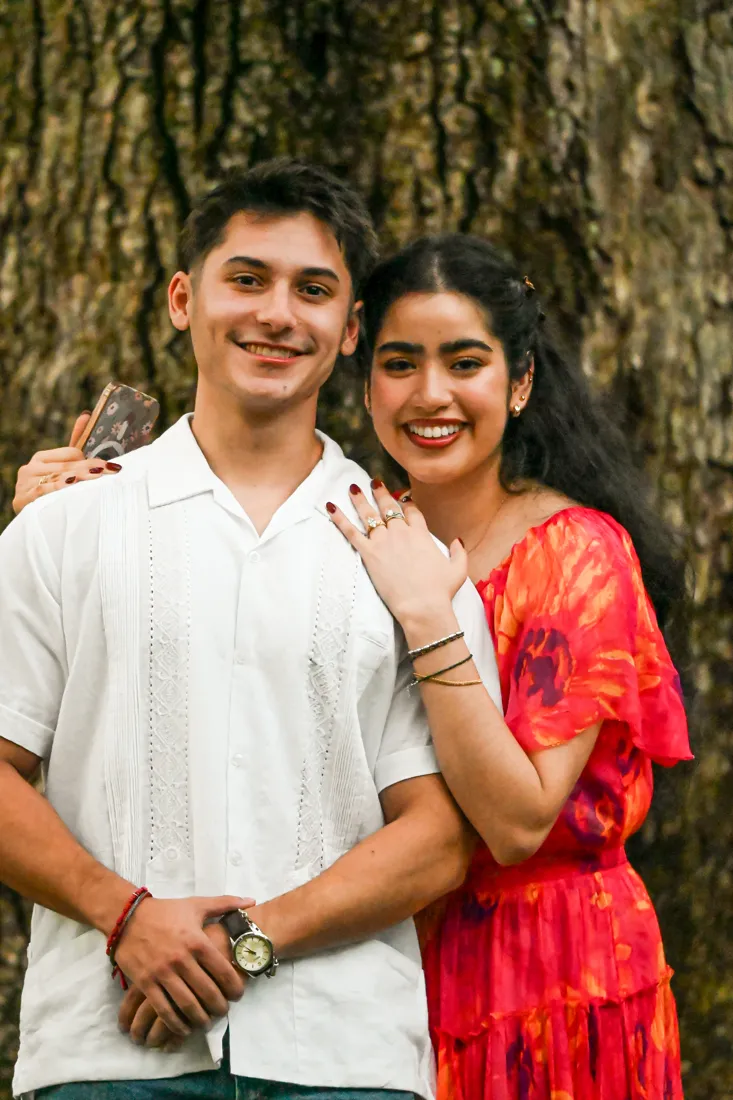
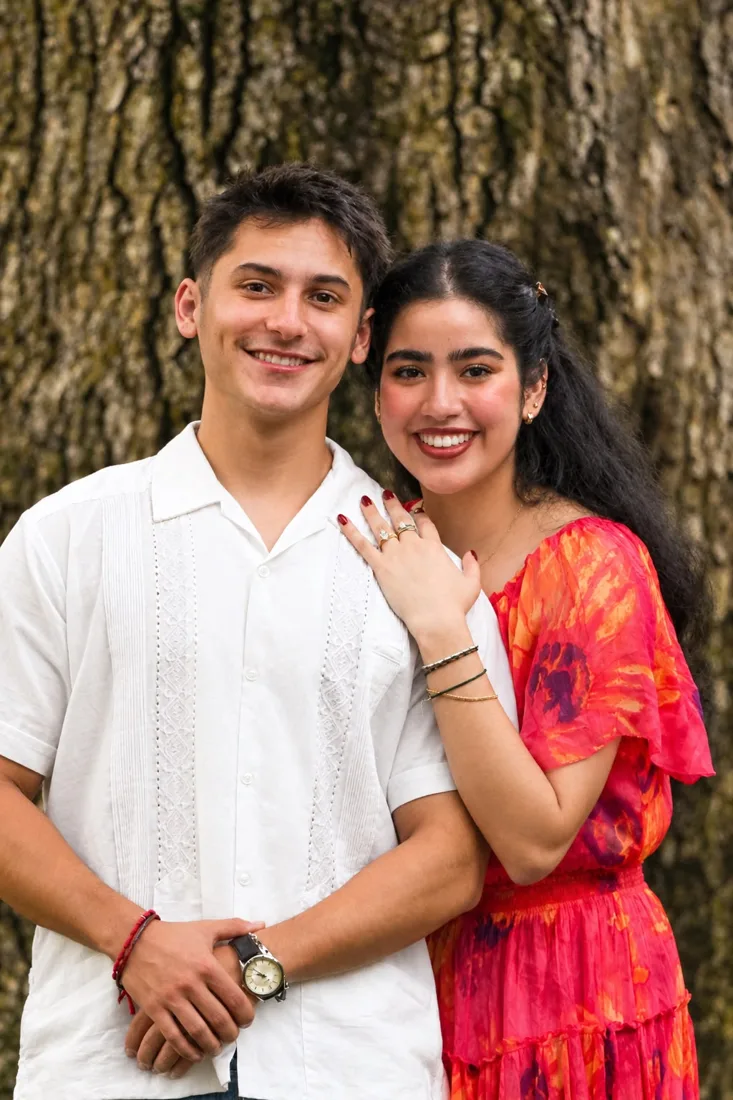
feat: invitacion alineada al STD aprobado (Parisienne+Cormorant, portada floral, aves del paraiso, fotos nuevas)

diff --git a/index.html b/index.html
@@ -19,10 +19,10 @@
 <meta name="twitter:title" content="Alejandra & Josef · 17 de Julio 2027">
 <meta name="twitter:image" content="https://boda-alejandra-y-josef.vercel.app/og-image.jpg">
 
-<link rel="preload" as="image" href="hero-foto.webp" fetchpriority="high">
+<link rel="preload" as="image" href="floral/bg-vestimenta.webp" fetchpriority="high">
 <link rel="preconnect" href="https://fonts.googleapis.com">
 <link rel="preconnect" href="https://fonts.gstatic.com" crossorigin>
-<link href="https://fonts.googleapis.com/css2?family=Cormorant+Garamond:ital,wght@0,400;0,500;0,600;1,400;1,500;1,600&family=Playfair+Display:ital,wght@0,400;0,500;1,400;1,500&family=Pinyon+Script&family=Italiana&family=Montserrat:wght@400;500;600&display=swap" rel="stylesheet">
+<link href="https://fonts.googleapis.com/css2?family=Cormorant+Garamond:ital,wght@0,400;0,500;0,600;0,700;1,400;1,500;1,600&family=Playfair+Display:ital,wght@0,400;0,500;1,400;1,500&family=Parisienne&family=Italiana&family=Montserrat:wght@400;500;600&display=swap" rel="stylesheet">
 <script src="https://cdnjs.cloudflare.com/ajax/libs/gsap/3.12.5/gsap.min.js"></script>
 <script src="https://cdnjs.cloudflare.com/ajax/libs/gsap/3.12.5/ScrollTrigger.min.js"></script>
 <style>
@@ -47,9 +47,9 @@
   --hair-gold:color-mix(in srgb, var(--gold) 32%, transparent);
   --display:'Cormorant Garamond',Georgia,serif;
   --serif:'Cormorant Garamond',Georgia,serif;
-  --script:'Pinyon Script',cursive;
+  --script:'Parisienne',cursive;
   --italiana:'Italiana',serif;
-  --sans:'Montserrat',system-ui,sans-serif;
+  --sans:'Cormorant Garamond',Georgia,serif;
 }
 *{box-sizing:border-box;margin:0;padding:0}
 html{scroll-behavior:smooth;-webkit-text-size-adjust:100%;background:#f3ecdd}
@@ -1071,6 +1071,33 @@ h2 em{font-family:var(--script)!important;font-style:normal!important;color:var(
 .dress-insp-btn{display:inline-flex;align-items:center;gap:9px;margin:4px auto 0;padding:13px 30px;border-radius:7px;background:var(--sage-deep);color:#fff;border:none;font-family:var(--sans);font-size:10.5px;font-weight:700;letter-spacing:.22em;text-transform:uppercase;cursor:pointer;transition:background .35s;min-height:46px}
 .dress-insp-btn:hover{background:var(--wine)}
 .dress-insp-btn svg{width:16px;height:16px;stroke:currentColor;stroke-width:1.6;fill:none}
+
+/* ===== Ajustes aprobados en el Save the Date (oct 2026) ===== */
+.hero{background-color:#faf8f5!important}
+.hero-bg-wrap{inset:0!important}
+.hero-bg{transform:none!important;filter:none!important;object-fit:cover;object-position:center}
+.hero-bg-overlay{background:radial-gradient(ellipse 70% 42% at center 50%, rgba(250,248,245,.92) 0%, rgba(250,248,245,.55) 60%, transparent 85%)!important}
+.hero-frame,.hero-frame-corners,.hero-ornament-top{display:none!important}
+.hero-content{color:#2C2C2C!important}
+.hero-invitation{color:#8C1149!important;text-shadow:none!important}
+.hero-eyebrow{color:#B0175F!important;font-weight:700!important;font-size:14px!important;letter-spacing:.4em!important}
+.hero-eyebrow::before,.hero-eyebrow::after{background:#C2410C!important}
+.hero-wir-heiraten{color:#2C2C2C!important;font-weight:700!important;font-size:13px!important;letter-spacing:.3em!important}
+.hero-name{color:#8C1149!important;text-shadow:0 2px 18px rgba(250,248,245,.9)!important}
+.hero-and{color:#C2410C!important;text-shadow:none!important}
+.hero-date{color:#0D0D0D!important;font-family:var(--display)!important;font-weight:700!important}
+.hero-date .sep{color:#C2410C!important}
+.hero-place{color:#8C1149!important;font-weight:700!important;font-size:clamp(20px,5.5vw,28px)!important;letter-spacing:.06em!important;text-transform:none!important}
+.hero-scroll{color:#5F5F5F!important}
+.bird-pair{position:absolute;right:4%;width:clamp(120px,32vw,200px);height:clamp(150px,40vw,250px);pointer-events:none;z-index:2}
+.bird-pair--top{top:-6px}
+.bird-pair--bottom{bottom:clamp(30px,6vw,60px);left:4%;right:auto}
+.bird{position:absolute;bottom:0;width:72%;height:auto;transform-origin:50% 100%;animation:bopSway 6.5s ease-in-out infinite alternate}
+.bird-1{left:0}
+.bird-2{right:0;transform:scaleX(-1);animation-duration:7.6s;animation-delay:-2.4s;width:64%}
+.bird-pair--top .bird{scale:1 -1;bottom:auto;top:0;transform-origin:50% 50%}
+@keyframes bopSway{from{rotate:-2.5deg}to{rotate:2.5deg}}
+@media (prefers-reduced-motion: reduce){.bird{animation:none!important}}
 </style>
 </head>
 <body>
@@ -1139,10 +1166,9 @@ h2 em{font-family:var(--script)!important;font-style:normal!important;color:var(
   <!-- HERO -->
   <section class="hero">
     <div class="hero-bg-wrap">
-      <img class="hero-bg" src="hero-foto.webp" alt="Ilustración en acuarela del venio" fetchpriority="high" loading="eager">
-      <video class="hero-vid" muted playsinline preload="auto">
-        <source src="https://bsjoelxktbvlavfoozhk.supabase.co/storage/v1/object/public/fotos-clientes/video/boda-fernanda-y-ricardo/hero.mp4" type="video/mp4">
-      </video>
+      <img class="hero-bg" src="floral/bg-vestimenta.webp" alt="" fetchpriority="high" loading="eager">
+      <div class="bird-pair bird-pair--top" aria-hidden="true"><img src="floral/bop-a.webp" alt="" class="bird bird-1"><img src="floral/bop-b.webp" alt="" class="bird bird-2"></div>
+      <div class="bird-pair bird-pair--bottom" aria-hidden="true"><img src="floral/bop-a.webp" alt="" class="bird bird-1"><img src="floral/bop-b.webp" alt="" class="bird bird-2"></div>
     </div>
     <div class="hero-bg-overlay"></div>
     <div class="hero-frame"></div>
@@ -1468,6 +1494,9 @@ h2 em{font-family:var(--script)!important;font-style:normal!important;color:var(
         <div class="wheel-card"><img src="foto7.webp" alt="Alejandra y Josef" loading="lazy"></div>
         <div class="wheel-card"><img src="foto8.webp" alt="Alejandra y Josef" loading="lazy"></div>
         <div class="wheel-card"><img src="foto9.webp" alt="Alejandra y Josef" loading="lazy"></div>
+        <div class="wheel-card"><img src="ramo.webp" alt="Alejandra y Josef" loading="lazy"></div>
+        <div class="wheel-card"><img src="beso-arbol.webp" alt="Alejandra y Josef" loading="lazy"></div>
+        <div class="wheel-card"><img src="anillo.webp" alt="Alejandra y Josef" loading="lazy"></div>
       </div>
     </div>
     <p class="gal-hint">arrastra para girar</p>
